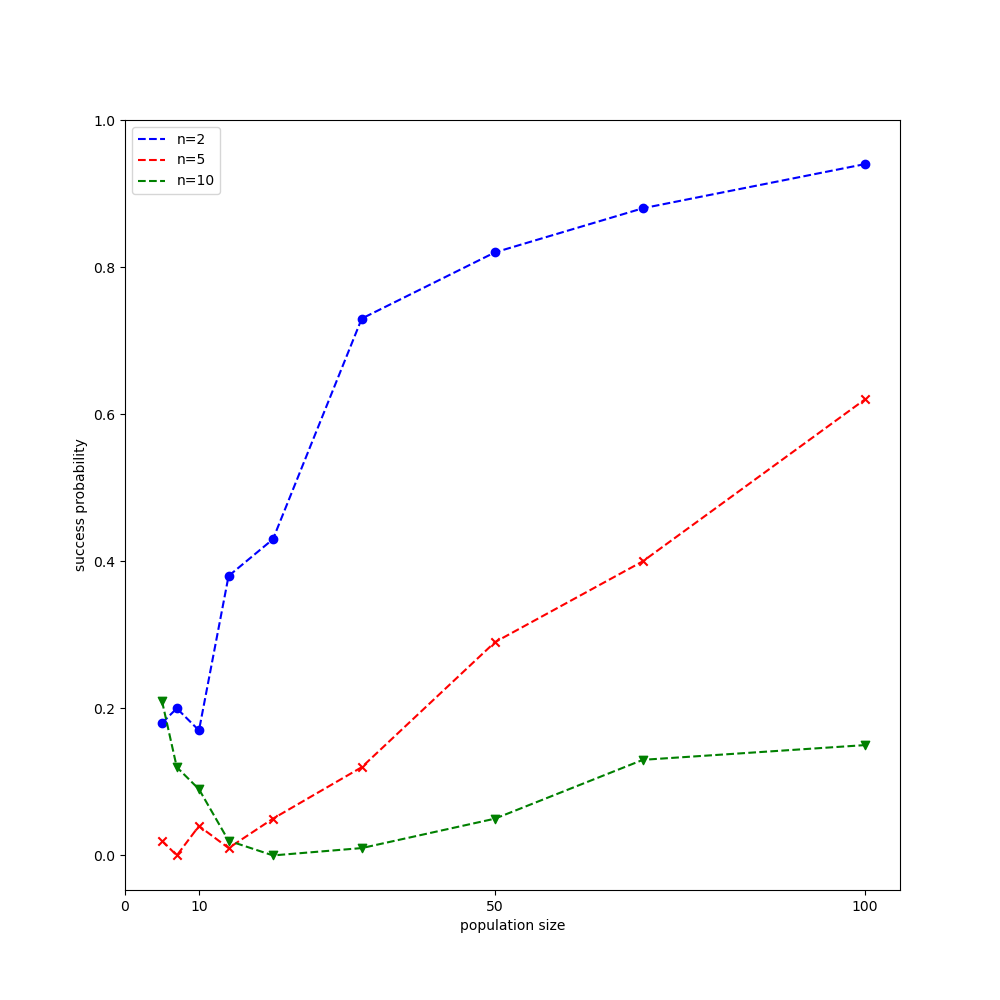
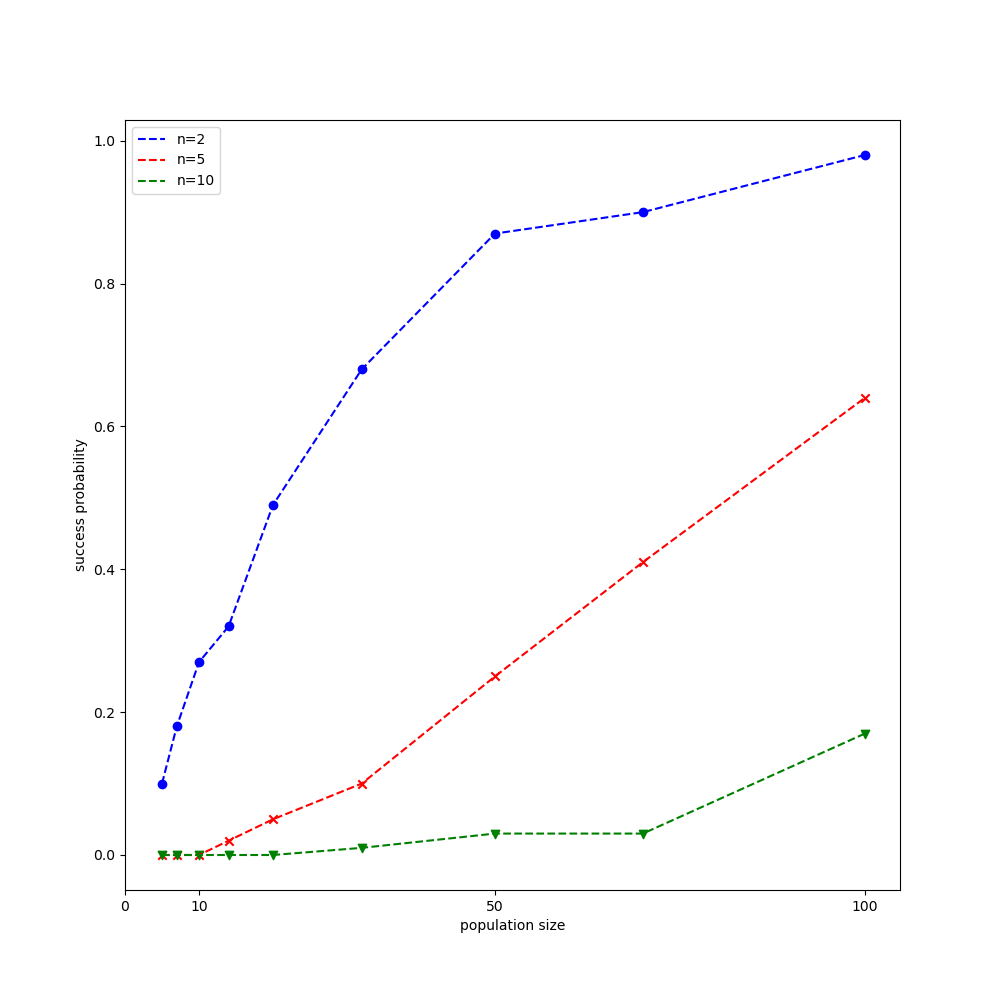
edit cmaes exp scripts

diff --git a/es.py b/es.py
@@ -4,23 +4,6 @@ import numpy as np
 import numpy.linalg as LA
 import math
 
-def dot(A, b, transpose=False):
-    """ usual dot product of "matrix" A with "vector" b.
-
-    ``A[i]`` is the i-th row of A. With ``transpose=True``, A transposed
-    is used.
-    """
-    if not transpose:
-        return [sum(A[i][j] * b[j] for j in range(len(b)))
-                for i in range(len(A))]
-    else:
-        return [sum(A[j][i] * b[j] for j in range(len(b)))
-                for i in range(len(A[0]))]
-
-def plus(a, b):
-    """add vectors, return a + b """
-    return [a[i] + b[i] for i in range(len(a))]
-
 
 class EvolutionStrategy(ABC):
     '''
@@ -76,7 +59,7 @@ class CMAES(EvolutionStrategy):
         sigma: initial step-size
         popsize: population size
         mu: number of parents/selected points
-        max_evals: maximum number of evaluations
+        max_fevals: maximum number of evaluations
         ftarget: target of fitness value
         '''
         # Set trategy parameters
@@ -90,7 +73,7 @@ class CMAES(EvolutionStrategy):
         self.ftarget = ftarget
 
         ## Set recombination weights
-        _weights = np.array([np.log(self.lambda_ / 2 + 0.5) - np.log(i + 1) 
+        _weights = np.array([np.log((self.lambda_ + 1) / 2) - np.log(i + 1) 
                 if i < self.mu else 0 for i in range(self.lambda_)], dtype=np.float64)
         self.weights = _weights / np.sum(_weights[:self.mu])
         self.weights_pos = self.weights[:self.mu]
@@ -107,7 +90,6 @@ class CMAES(EvolutionStrategy):
         # self.dsigma = 1 + 2 * max(0, np.sqrt((self.mueff - 1) 
         #         / (n + 1)) - 1) + self.csigma
         self.dsigma = 2 * self.mueff / self.lambda_ + 0.3 + self.csigma
-        
 
         # Initialization
         self.psigma = np.zeros(n)
@@ -128,18 +110,10 @@ class CMAES(EvolutionStrategy):
         X = m + sigma * Y ~ m + sigma * N(0, C)
         '''
         self._diagonalize_C()
-        # Z = np.random.randn(self.n, self.lambda_)
-        # Y = LA.multi_dot([self.Q, self.Lambda**0.5, Z])
-        # X = self.xmean.reshape(self.n, 1) + self.sigma * Y
-
-        candidate_solutions = []
-        for _k in range(self.lambda_):  # repeat lam times
-            z = [self.sigma * eigenval**0.5 * np.random.randn()
-                 for eigenval in self.C_eigenvals]
-            y = dot(self.Q.tolist(), z)
-            candidate_solutions.append(plus(self.xmean.tolist(), y))
-
-        return np.array(candidate_solutions).T
+        Z = np.random.randn(self.n, self.lambda_)
+        Y = LA.multi_dot([self.Q, self.Lambda**0.5, Z])
+        X = self.xmean.reshape(self.n, 1) + self.sigma * Y
+        return X
 
 
     def tell(self, X: np.ndarray, fitness_list: np.ndarray):
@@ -231,7 +205,7 @@ class CMAES(EvolutionStrategy):
 
 
     def _diagonalize_C(self):
-        self.C_eigenvals, self.Q  = LA.eig(self.C)
+        self.C_eigenvals, self.Q  = LA.eigh(self.C)
         self.Lambda = np.diag(self.C_eigenvals)
         assert np.min(self.C_eigenvals) > 0, f'Covariance matrix is not PD!: {min(self.C_eigenvals)}'
         self.condition_number = np.max(self.C_eigenvals) / np.min(self.C_eigenvals) \

diff --git a/test.py b/test.py
@@ -9,10 +9,11 @@ from tqdm import trange
 if __name__ == '__main__':
     n_runs = 100
     # n_runs = 1
-    np.random.seed(2)
-    ns = [2, 5, 10, 20]
-    # ns = [3]
-    popsizes = [5, 7, 10, 14, 20, 32, 50, int(50 * np.sqrt(2)), 100, int(100 * np.sqrt(2)), 200]
+    np.random.seed(13)
+    # ns = [2, 5, 10, 20]
+    ns = [10]
+    popsizes = [5]
+    # popsizes = [5, 7, 10, 14, 20, 32, 50, int(50 * np.sqrt(2)), 100, int(100 * np.sqrt(2)), 200]
 
     np.set_printoptions(precision=16)
     record = dict()

diff --git a/dim-popsize-exp.py b/dim-popsize-exp.py
@@ -2,18 +2,16 @@ import es
 from test_functions import rastrigin
 import numpy as np
 import matplotlib.pyplot as plt
-from plot import Plot
 from tqdm import trange
 
 
 if __name__ == '__main__':
-    np.random.seed(2)
+    np.random.seed(13)
     n_runs = 100
     ns = [2, 5, 10]
     popsizes = [5, 7, 10, 14, 20, 32, 50, int(50 * np.sqrt(2)), 100]
     colors = ['blue', 'red', 'green']
     markers = ['o', 'x', 'v']
-
     record = np.zeros((len(ns), len(popsizes)))
 
     for ni, n in enumerate(ns):

diff --git a/README.md b/README.md
@@ -4,7 +4,7 @@
 1. [x] CMA-ES
 	- References:  
 	[1] Nikolaus Hansen. [The CMA Evolution Strategy: A Tutorial](https://arxiv.org/abs/1604.00772).  
-	[2] Nikolaus Hansen, Youhei Akimoto & Petr Baudis. [CMA-ES/pycma on Github](https://github.com/CMA-ES/pycma). Zenodo, [DOI:10.5281/zenodo.2559634](https://doi.org/10.5281/zenodo.2559634), February 2019
+	[2] Nikolaus Hansen, Youhei Akimoto & Petr Baudis. [CMA-ES/pycma on Github](https://github.com/CMA-ES/pycma). Zenodo, [DOI:10.5281/zenodo.2559634](https://doi.org/10.5281/zenodo.2559634), February 2019.  
 	[3] Nikolaus Hansen, Stefan Kern. [Evaluating the CMA Evolution Strategy on Multimodal Test Functions](https://doi.org/10.1007/978-3-540-30217-9_29). Parallel Problem Solving from Nature - PPSN VIII. PPSN 2004. 
 2. [ ] NES
 	- References:  
